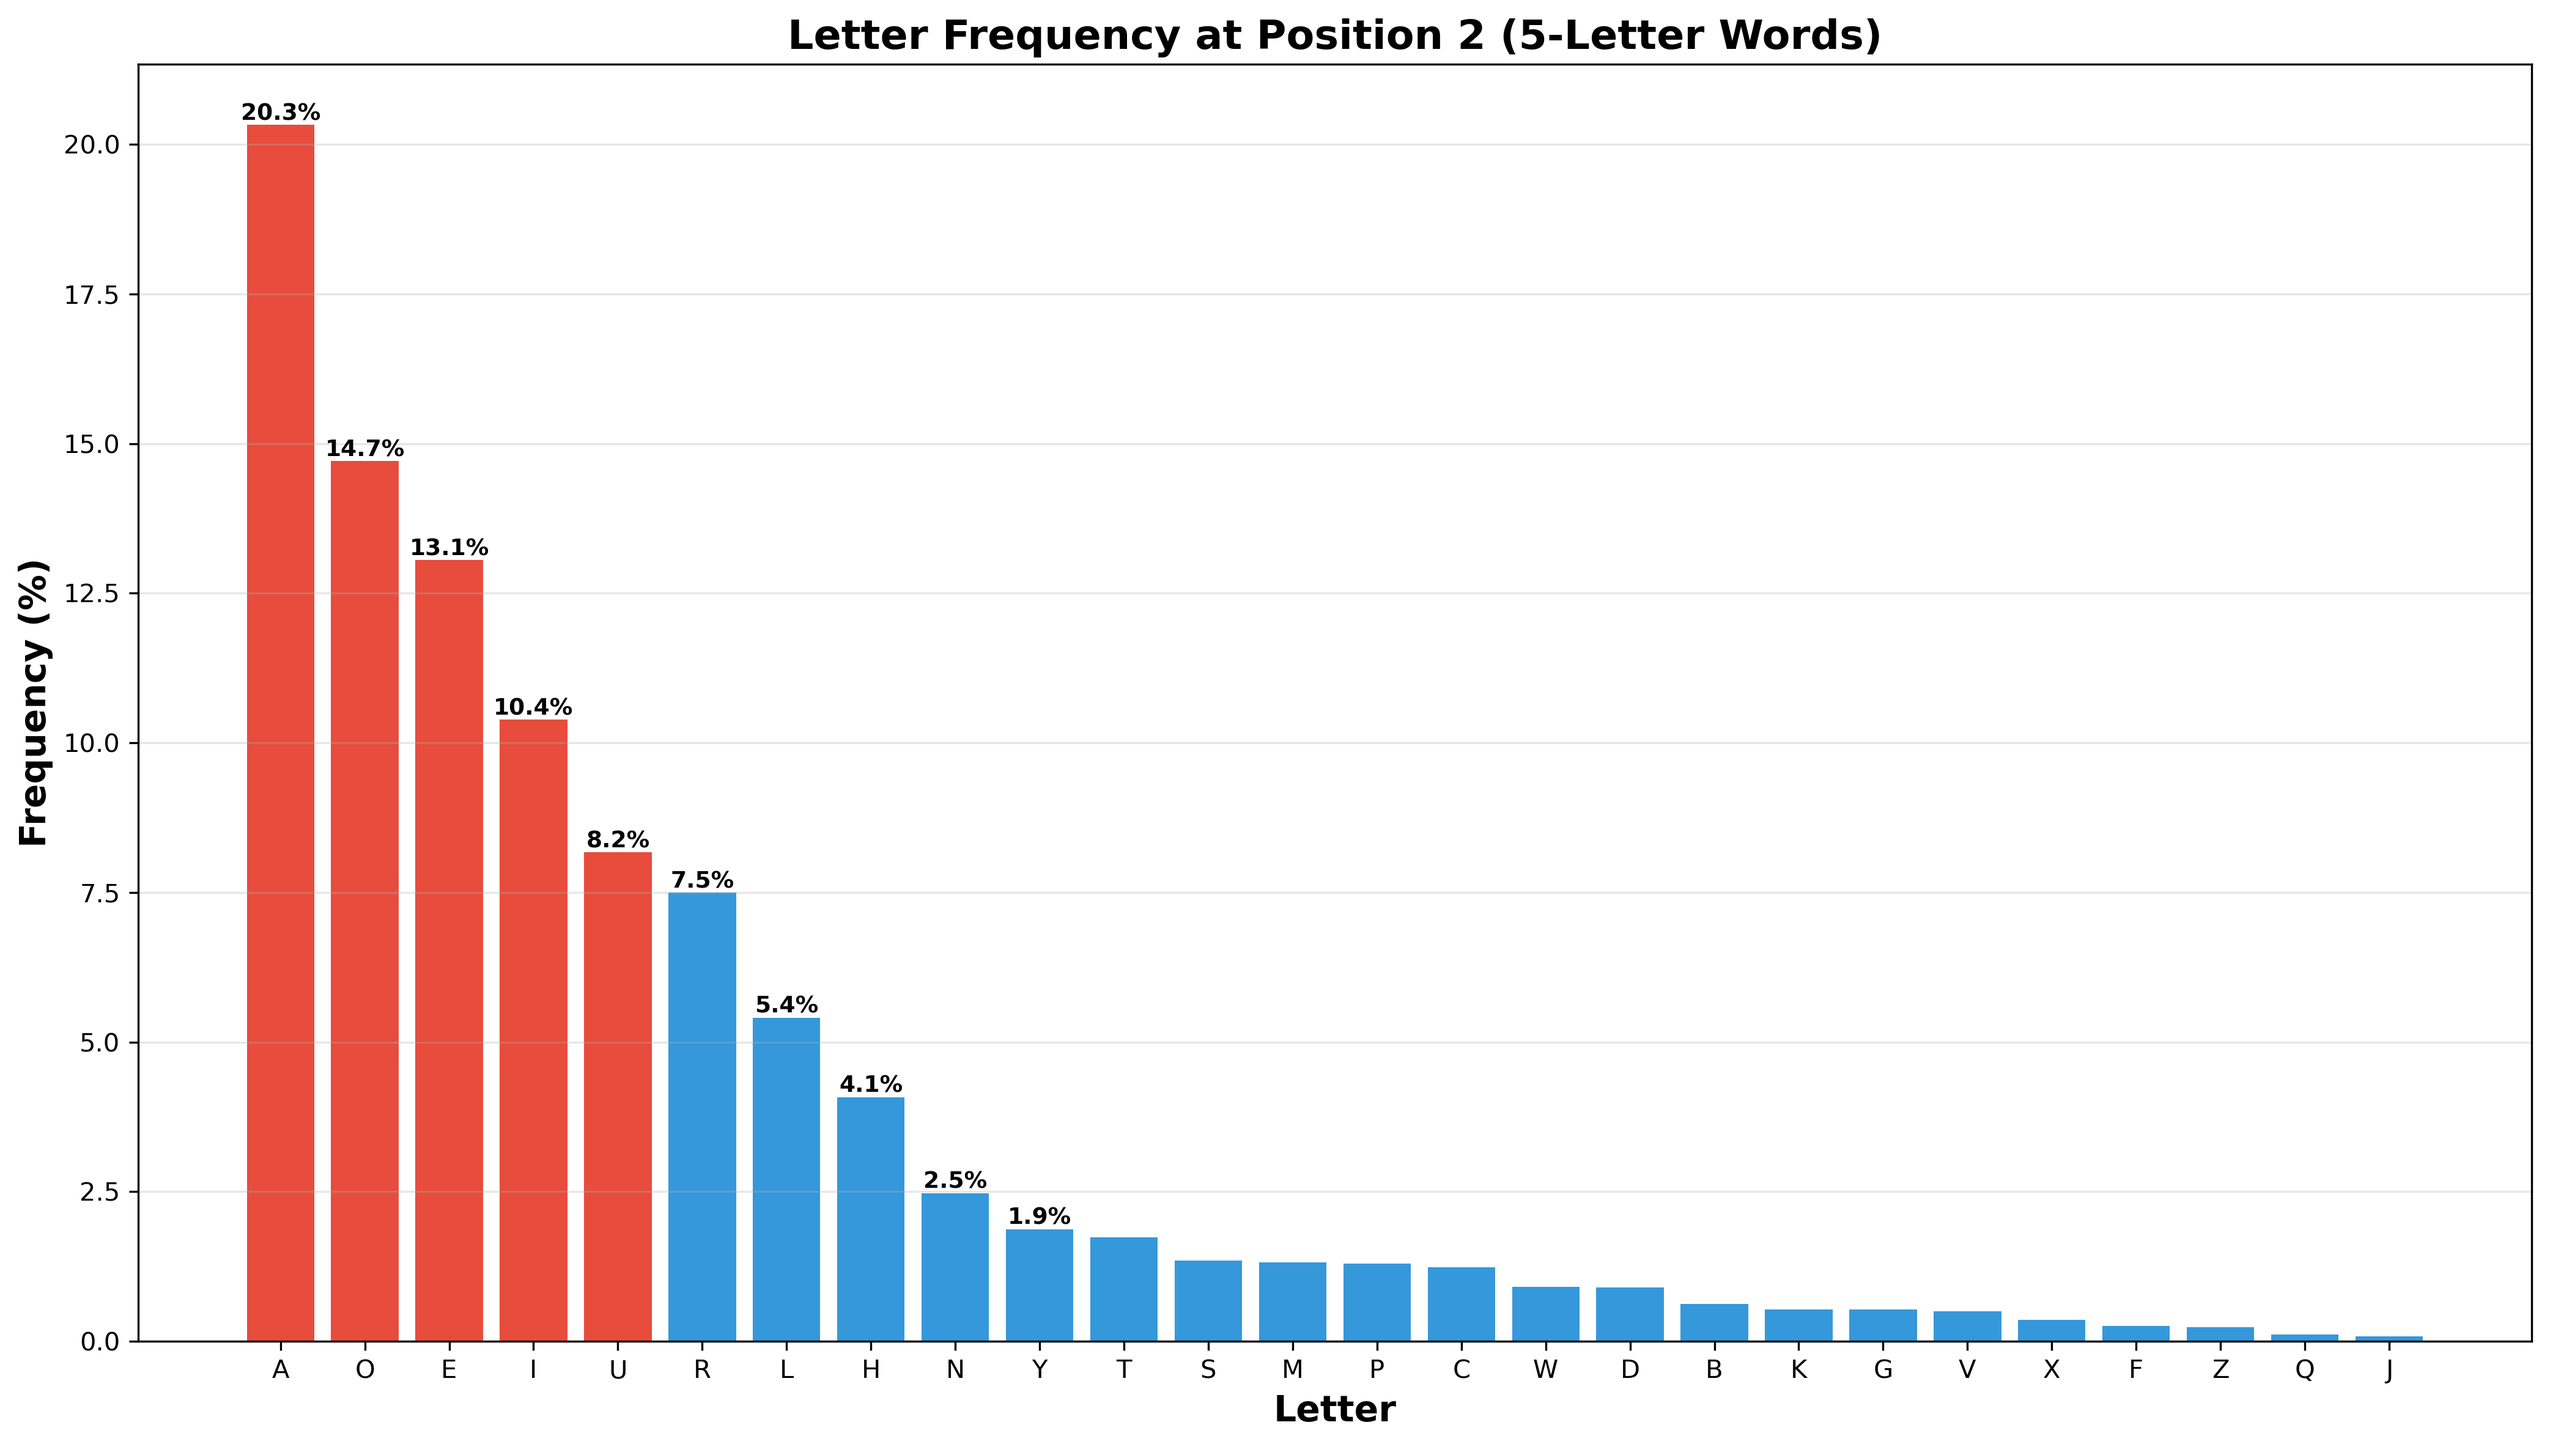
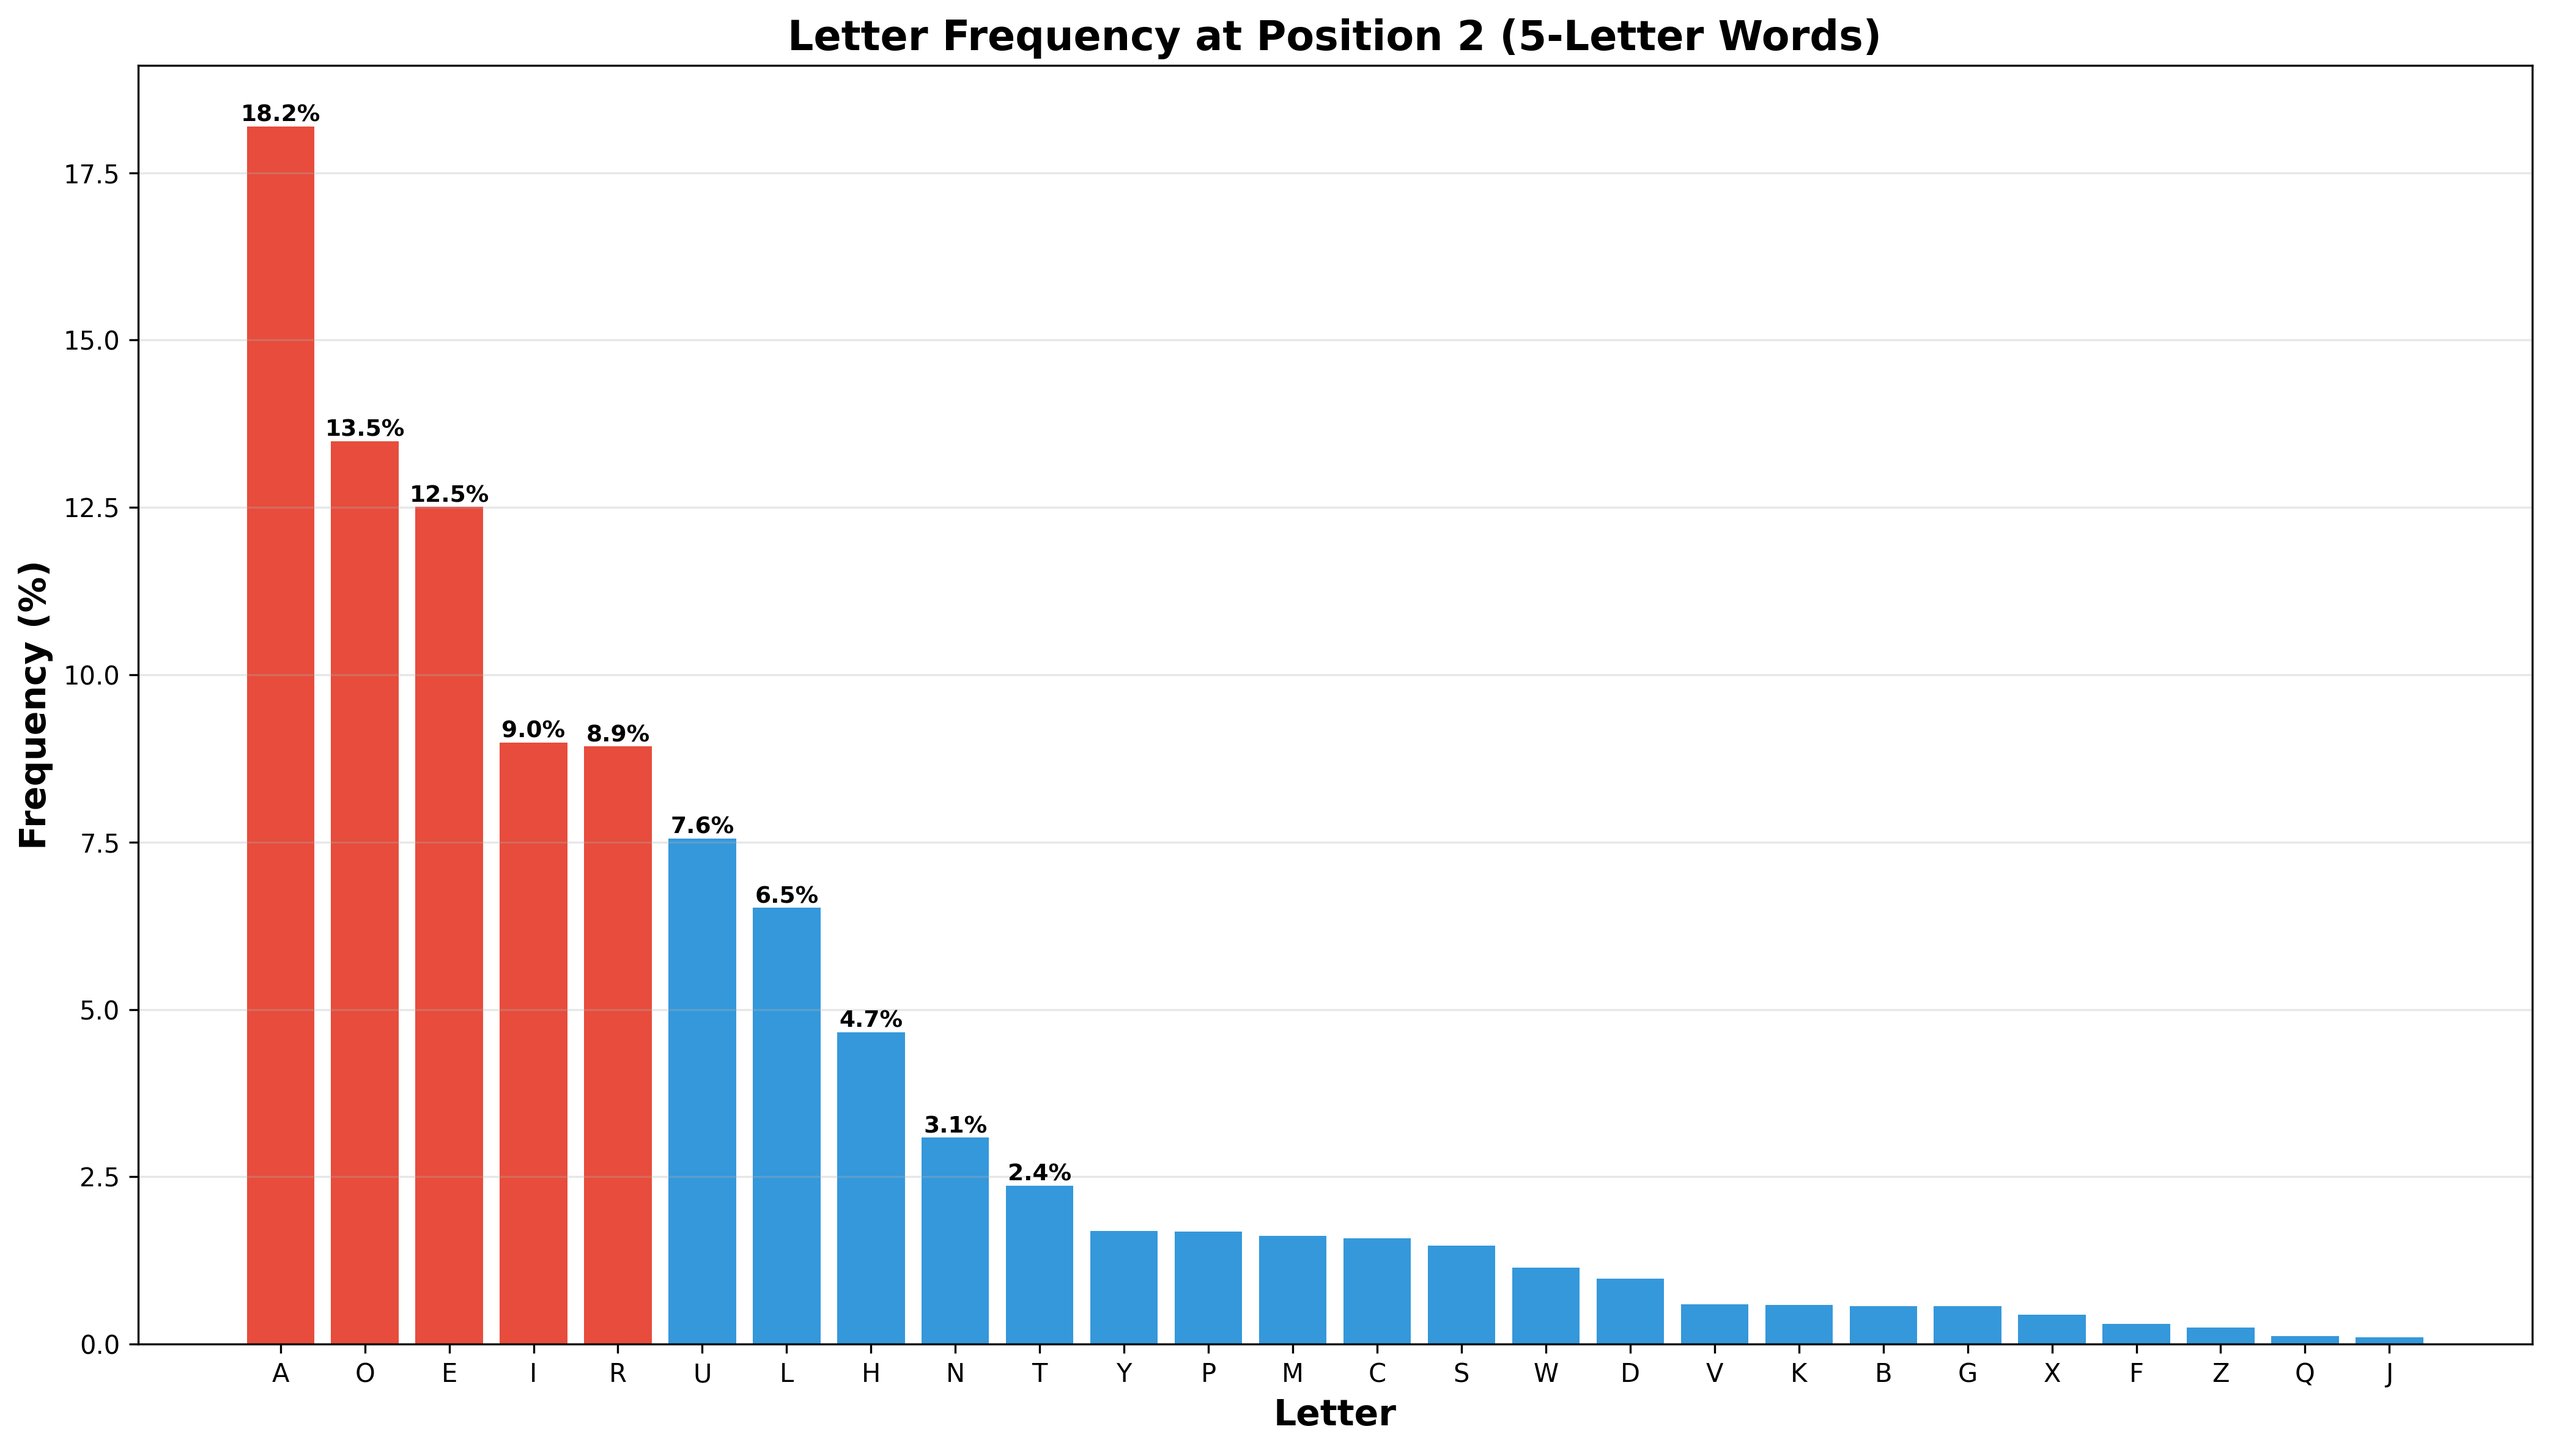
upd charts and load_valid_words function

diff --git a/utils.py b/utils.py
@@ -2,27 +2,23 @@ from collections import Counter
 from typing import Dict, List
 
 #Word List
-def load_valid_words(path: str = 'valid_words.txt', letters_number:int=5) -> List[str]:
-    #Loads 5-letter words from the specified file path
-
-    #In case of error, will use sample words
-    sample_words = ["crane", "train", "power", "sheep", "light"]
+def load_valid_answers(letters_number:int=5) -> List[str]:
+    #Loads n-letter words from the specified file path
     words = []
 
     try:
-        with open(path, 'r') as file:
-            #Store all words in lowercase and strip whitespace
-            words = [line.strip().lower() for line in file.readlines()]
+        with open(f'answers_{letters_number}letter.txt', 'r') as f:
+            words = [w.strip() for w in f.readlines()]
     except FileNotFoundError:
-        print(f"Error: {path} not found. Using a sample list for simulation.")
-        words = sample_words
+        print(f"Error: 'answers_{letters_number}letter.txt' not found. Using a sample list for simulation.")
+        return []
 
-    #Filter the list to make sure only 5-letter words are used
+    #Filter the list to make sure only n-letter words are used
     n_letter_words = [w for w in words if len(w) == letters_number]
 
     if not n_letter_words:
         print(f"Warning: No {letters_number}-letter words found. Using sample list.")
-        return sample_words
+        return []
 
     return n_letter_words
 

diff --git a/solver.py b/solver.py
@@ -2,6 +2,8 @@ from typing import List, Dict, Tuple, Optional
 from collections import Counter, defaultdict
 import copy
 
+from utils import load_valid_answers
+
 
 def compute_max_letter_counts(words: List[str], letters_number: int) -> Dict[str, int]:
     """Compute the maximum number of occurrences of each letter across the word list."""
@@ -33,8 +35,7 @@ def positional_frequencies(words: List[str], letters_number: int) -> List[Dict[s
 class CSPSolver:
     def __init__(self, letters_number: int = 5):
         self.letters_number = letters_number
-        with open(f'answers_{letters_number}letter.txt', 'r') as f:
-            self.words = [w.strip() for w in f.readlines()]
+        self.words = load_valid_answers(letters_number=letters_number)
 
         # Initial domain: all lowercase letters that appear in word list for that position
         freqs = positional_frequencies(self.words, letters_number)

diff --git a/eda_analysis.py b/eda_analysis.py
@@ -4,16 +4,18 @@ import seaborn as sns
 import os
 from collections import Counter
 
+from utils import load_valid_answers
+
 def load_words(filepath='valid_words.txt'):
     """Load all valid words from the dataset"""
     with open(filepath, 'r') as file:
         words = [line.strip().lower() for line in file.readlines()]
     return words
-def separate_by_length(words):
+def separate_by_length():
     """Separate words into 5, 6, and 7-letter categories"""
-    words_5 = [w for w in words if len(w) == 5]
-    words_6 = [w for w in words if len(w) == 6]
-    words_7 = [w for w in words if len(w) == 7]
+    words_5 = load_valid_answers(5)
+    words_6 = load_valid_answers(6)
+    words_7 = load_valid_answers(7)
     return words_5, words_6, words_7
 
 def calculate_position_frequencies(words, word_length):

diff --git a/main3.py b/main3.py
@@ -7,7 +7,7 @@ def main():
     print(f"Total words: {len(words):,}")
     
     print("\nSeparating by length")
-    words_5, words_6, words_7 = separate_by_length(words)
+    words_5, words_6, words_7 = separate_by_length()
     print(f"5-letter words: {len(words_5):,}")
     print(f"6-letter words: {len(words_6):,}")
     print(f"7-letter words: {len(words_7):,}")

diff --git a/main.py b/main.py
@@ -4,7 +4,6 @@ if __name__ == '__main__':
     # tiny example word list (replace with real wordlist)
     
     csp = CSPSolver(letters_number=5)
-
     # Example: suppose we guessed 'crate' and feedback was [GRAY, YELLOW, GRAY, GREEN, GRAY]
     # meaning: c=X, r=Y, a=X, t=G, e=X
     guess = 'crate'
